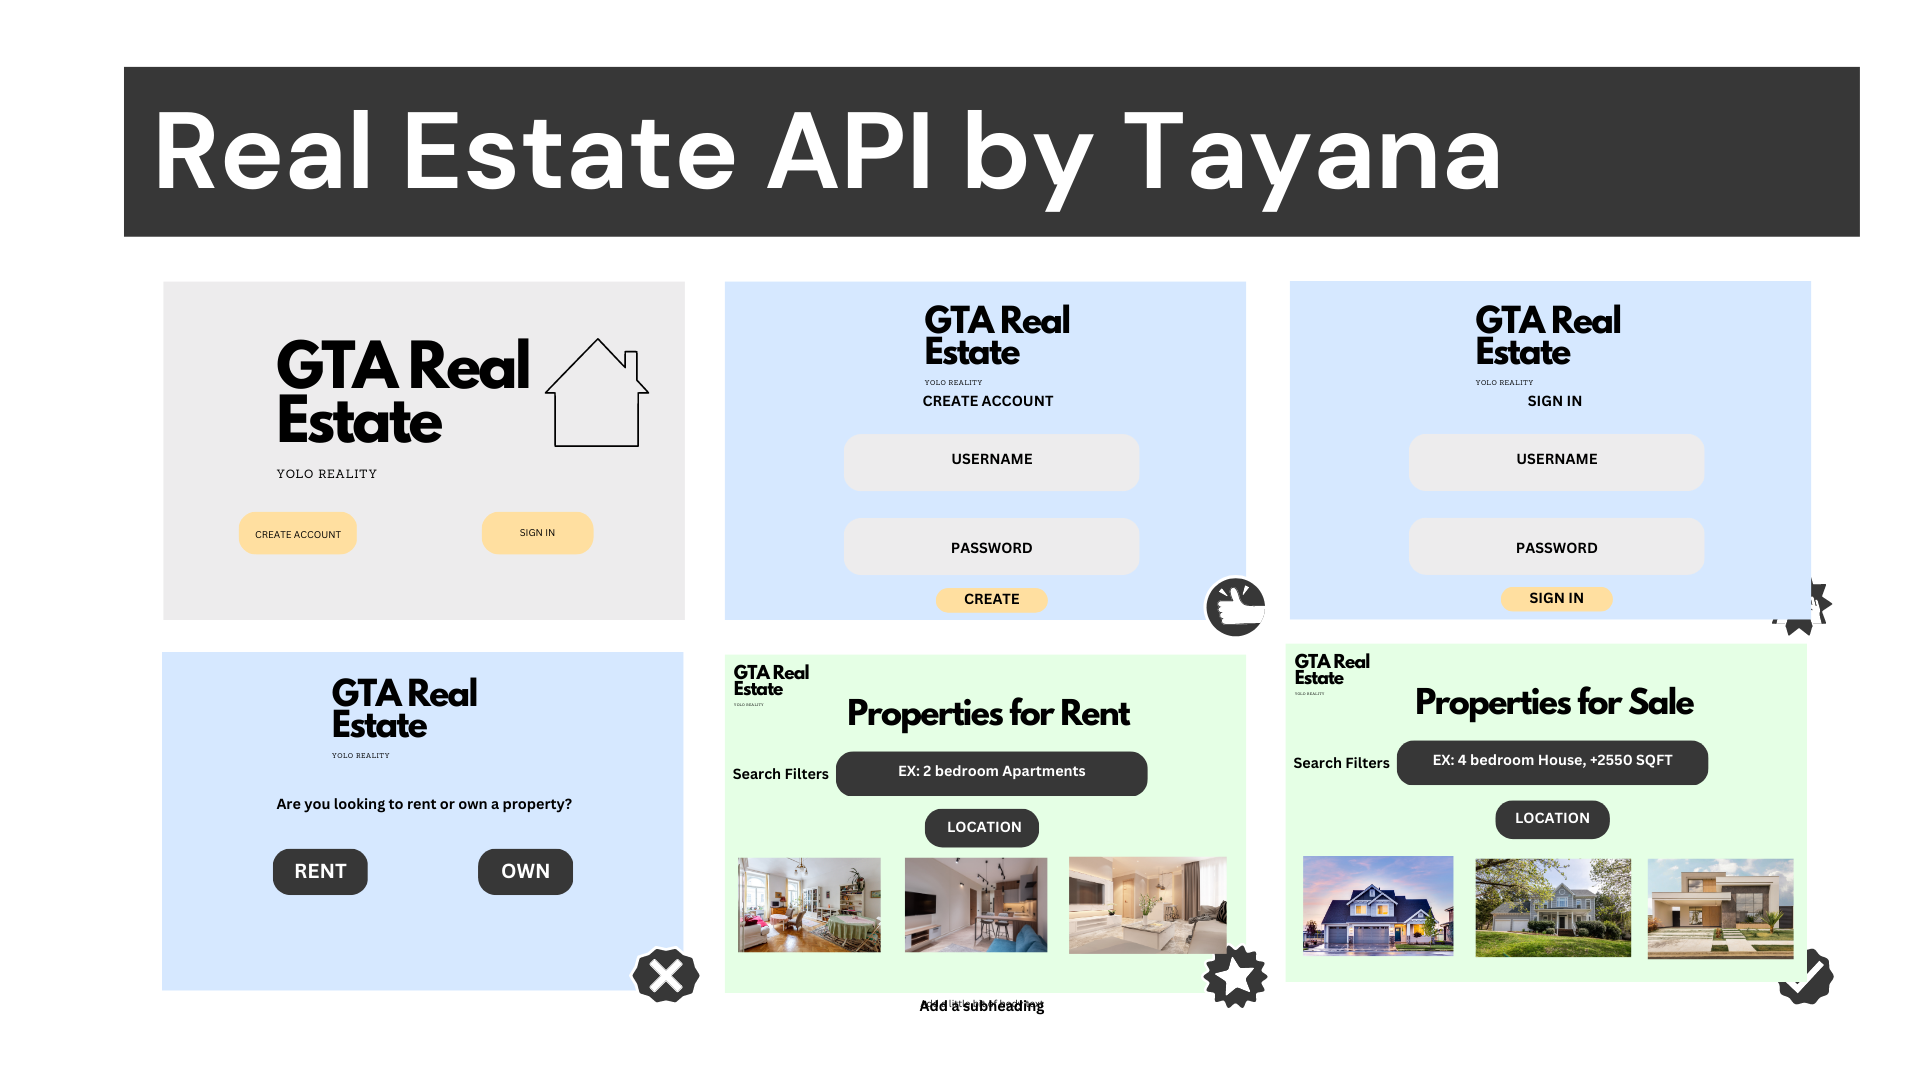
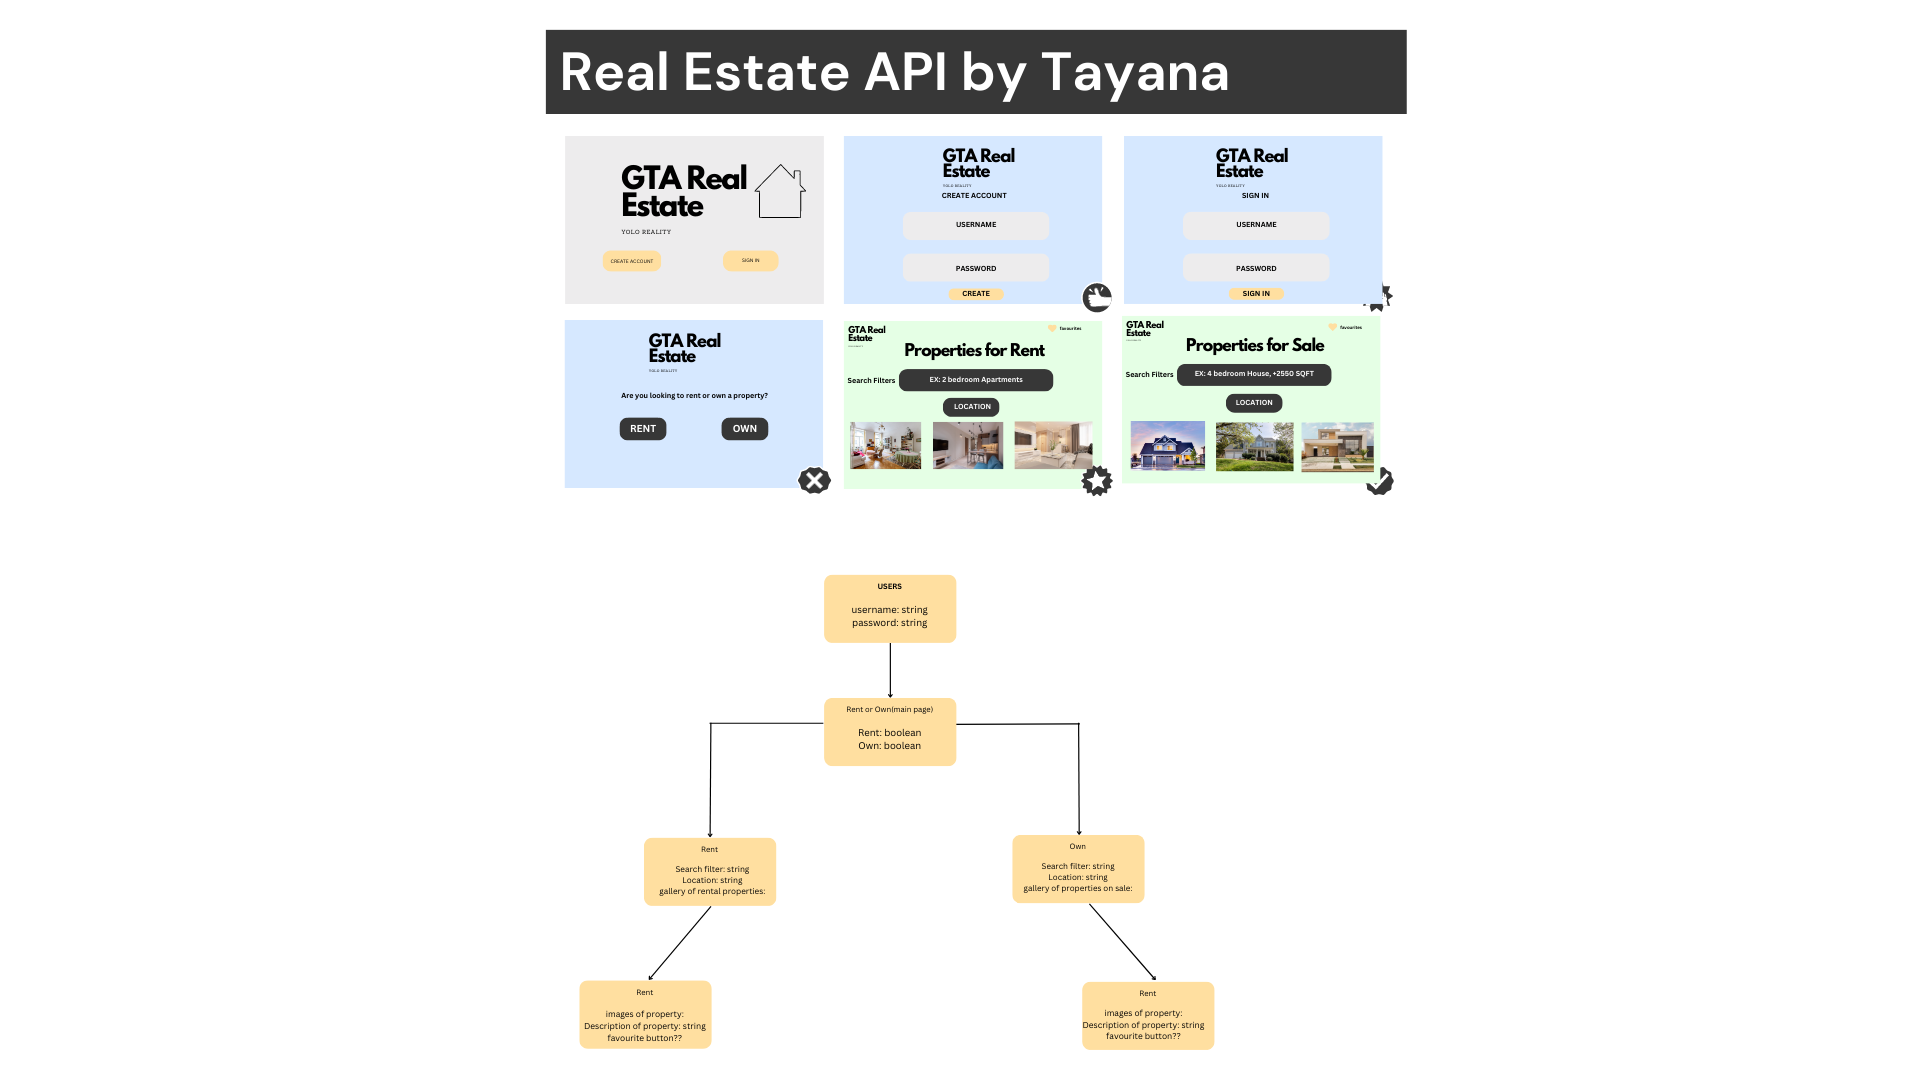
ERD

diff --git a/README.md b/README.md
@@ -12,7 +12,7 @@ Here I have a Real Estate API based in the GTA, for those looking to own or rent
 
  - The ability to do search filters for their preferences. For example, if someone is specifically looking for a home with +3 bedrooms, a 1 bedroom and 1 bath apartment, or a property for less than CAD $250,000 (good luck finding that). 
 
- - The ability to pick a location or multiple location in the GTA. A few of the options included will be, Toronto, Oakvill, Burlington, Hamilton and London.
+ - The ability to pick a location or multiple locations in the GTA. A few of the options included will be, Toronto, Oakville, Burlington, Hamilton and London.
  
  - The ability to scroll down the feed to view propeties for rent and propeties for sale according to the user's preferences.
 
@@ -31,3 +31,5 @@ Here I have a Real Estate API based in the GTA, for those looking to own or rent
  - MONGOOSE
  - EXPRESS
  - API
+
+ ERD'S
